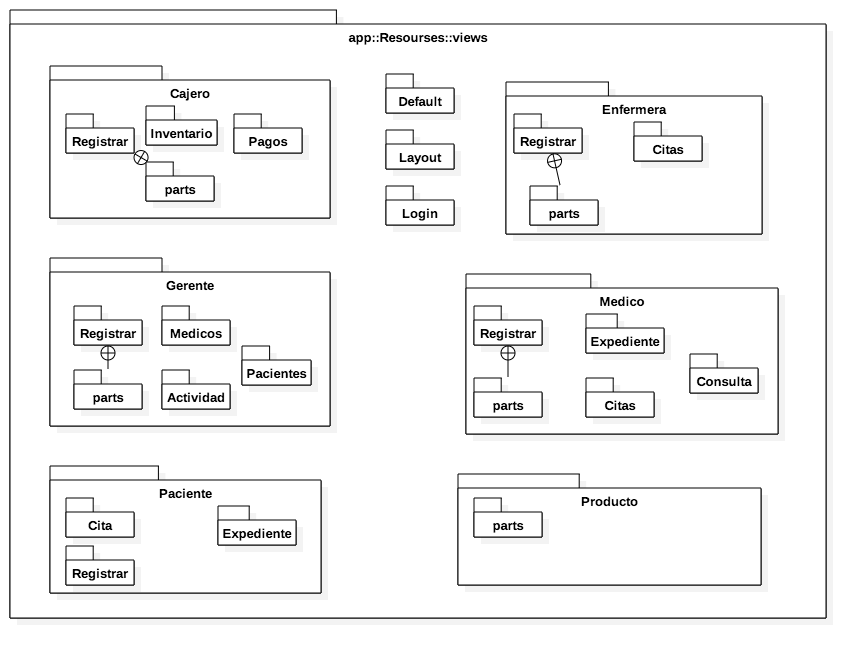
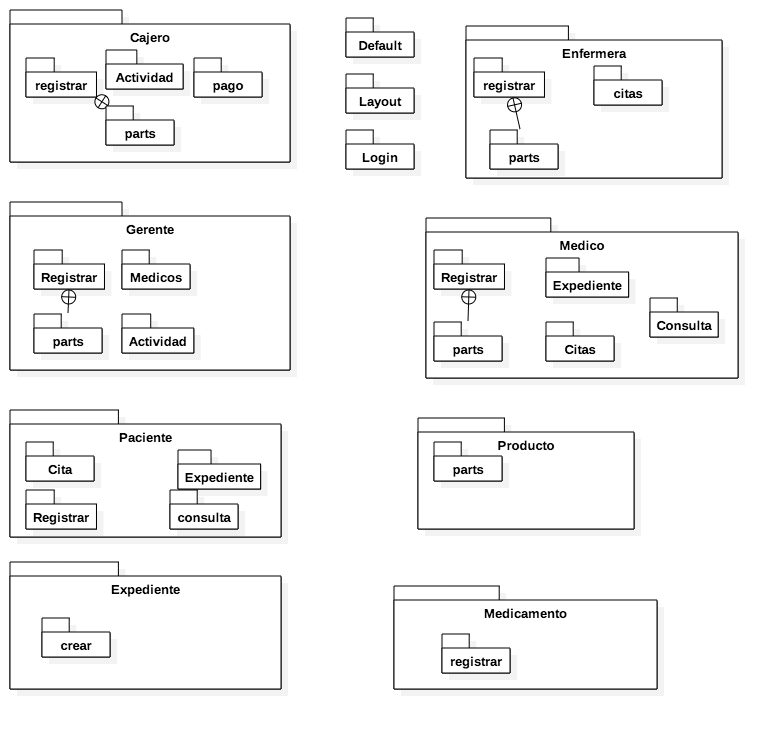
actualizando estructura del proyecto

diff --git a/documento_disenio/ModeloEstatico/modeloEstatico.tex b/documento_disenio/ModeloEstatico/modeloEstatico.tex
@@ -23,6 +23,8 @@
 			\includegraphics[width=1\textwidth]{images/logico34}
 		\caption{Estructura angular app}
 	\end{figure}
+	
+	
 	\newpage
 	\section{web::js::app}
 	\subsection{cajero}
@@ -37,6 +39,17 @@
 			\begin{itemize}
 				\item factories.js
 			\end{itemize}
+		\end{itemize}
+		\item buscarMedicamento
+		\begin{itemize}
+		\item controllers
+		\begin{itemize}
+		\item buscarMedicamento.js
+		\end{itemize}
+		\item services
+		\begin{itemize}
+		\item factories.js
+		\end{itemize}
 		\end{itemize}
 	\end{itemize}
 	\subsection{enfermera}
@@ -120,15 +133,14 @@
 				\end{itemize}
 				\item registrarCajero.html.twig
 			\end{itemize}
-			\item Inventario
+			\item actividad
 			\begin{itemize}
-				\item modificarInventario.html.twig
+				\item consultarMedicamentos.html.twig
 				\item consultarInventario.html.twig
 			\end{itemize}
-			\item Pagos
+			\item pago
 			\begin{itemize}
-				\item pagoFarmacia.html.twig
-				\item pagoCita.html.twig
+				\item registrarPagoCita.html.twig
 			\end{itemize}
 		\end{itemize}
 		
@@ -147,10 +159,11 @@
 		\item citas 
 			\begin{itemize}
 				\item agendarCita.html.twig
-				\item consultarCita.html.twig
-				\item cancerlarCita.html.twig
+				\item agendarCalendario.html.twig
+				\item consultarCitas.html.twig
 			\end{itemize}
 		\end{itemize}
+		
 		\subsection{Gerente}
 		\begin{itemize}
 			\item registrar
@@ -169,10 +182,12 @@
 			\end{itemize}
 			\item actividad
 			\begin{itemize}
+				\item consultarArticulosVendidos.html.twig
 				\item consultarCitasRealizadas.html.twig
-				\item consultarVentasRealizadas.html.twig
+				\item mostrarPacientes.html.twig
 			\end{itemize}
 		\end{itemize}
+		
 		\subsection{Medico}
 		\begin{itemize}
 			\item registrar
@@ -183,32 +198,29 @@
 				\item medicoTabla.html.twig
 			\end{itemize}
 			\end{itemize}
-			\item Expediente 
-			\begin{itemize}
-				\item crearExpediente.html.twig
-				\item consultarExpediente.html.twig
-			\end{itemize}
-			\item citas
-			\begin{itemize}
-				\item consultarCitas.html.twig
-				\item cancelarCitas.html.twig
-			\end{itemize}
-			\item consulta
-			\begin{itemize}
-				\item crearTratamiento.html.twig				
-			\end{itemize}
+			\item consultarCitas.html.twig
+			\item pasoPrincipalConsulta.html.twig 
+			
 		\end{itemize}
 		\subsection{Paciente}
 		\begin{itemize}
 			\item cita
 			\begin{itemize}
-				\item agendarCita.html.twig
-				\item cancelarCita.html.twig
+				\item agendar.html.twig
+				\item agendarCalendario.html.twig
 			\end{itemize}
-			\item expediente
+
+			\item consulta
 			\begin{itemize}
-				\item consultarExpediente.html.twig
+				\item consultarCitasPaciente.html.twig
 			\end{itemize}
+			
+			
+			\item datos
+			\begin{itemize}
+			\item datosPaciente.html.twig
+			\end{itemize}
+			
 			\item registrar
 			\begin{itemize}
 			\item registrarPaciente.html.twig
@@ -219,9 +231,12 @@
 			\begin{itemize}
 			\item parts
 			\begin{itemize}
-				\item productosTabla.html.twig
+				\item buscar\_ productos\_ tabla.html.twig
+				\item productos\_ agregados.html.twig
+				\item productos\_ tabla.html.twig
 			\end{itemize}
-			\item registrarProducto.html.twig
+			\item buscarProducto.html.twig
+			\item index.html.twig
 			\end{itemize}
 
 		\subsection{default}
@@ -237,6 +252,10 @@
 			\item menuLeft.html.twig
 			\item menuTop.html.twig
 		\end{itemize}
+		
+		
+		
+		
 	\section{src::AppBundle::Controller}
 	\subsection{Gerente}
 	\begin{itemize}
@@ -249,6 +268,7 @@
 	\subsection{Paciente}
 	\begin{itemize}
 		\item PacienteController.php
+		\item CitaController.php
 	\end{itemize}
 	\subsection{Medico}
 	\begin{itemize}
@@ -270,10 +290,13 @@
 	\begin{itemize}
 		\item ProductoController.php
 	\end{itemize}
+	
+	
 	\section{src::AppBundle::Controller::Api}
 		\subsection{Cajero}
 		\begin{itemize}
 		\item CajeroController.php
+		\item MedicamentoController.pho
 		\end{itemize}
 		\subsection{Enfermera}
 		\begin{itemize}
@@ -295,27 +318,35 @@
 		\begin{itemize}
 		\item PacienteController.php
 		\end{itemize}
+		
+		
+		
 	\section{src::AppBundle::Form::Type}
+	
 		\subsection{Paciente}
 		\begin{itemize}
 		\item CitaType.php
 		\item PacienteType.php
+		\item PacienteRegistrationType.php
+		
 		\end{itemize}
-		\subsection{Index}
 		\subsection{Cajero}
 		\begin{itemize}
 		\item CajeroRegistrationType.php
 		\item CajeroType.php
+		\item CajeroBuscarProductoType.php
+		\item CajeroPagoCitaType.php
 		\end{itemize}
 		\subsection{Producto}
 		\begin{itemize}
 		\item ProductoType.php
 		\end{itemize}
-		\subsection{Login}
+		
 		\subsection{Medico}
 		\begin{itemize}
 		\item MedicoRegistrationType.php
 		\item MedicoType.php
+		\item HorarioType.php
 		\end{itemize}
 		
 		\subsection{Gerente}
@@ -331,9 +362,23 @@
 		\end{itemize}
 		
 		\subsection{Expediente}
-		\subsection{Consulta}
+		\begin{itemize}
+			\item AlergiaRegistrationType.php
+			\item AntecedenteFamiliarRegistrationType.php
+			\item AntecedentePersonalRegistrationType.php
+			\item AnticonceptivoRegistrationType.php
+			\item CirugiaRegistrationType.php
+			\item EmbarazoRegistrationType.php
+			\item EnfermedadRegistrationType.php
+			\item ExpedienteRegistrationType.php
+			\item MastografiaRegistrationType.php
+			\item PapanicolaouRegistrationType.php
+		\end{itemize}
 		\subsection{Medicamento}
-		\subsection{Pago}
+		\begin{itemize}
+			\item ActivoType.php
+			\item MedicamentoType.php
+		\end{itemize}
 		\subsection{User}
 		\begin{itemize}
 		\item RegistrationType.php
